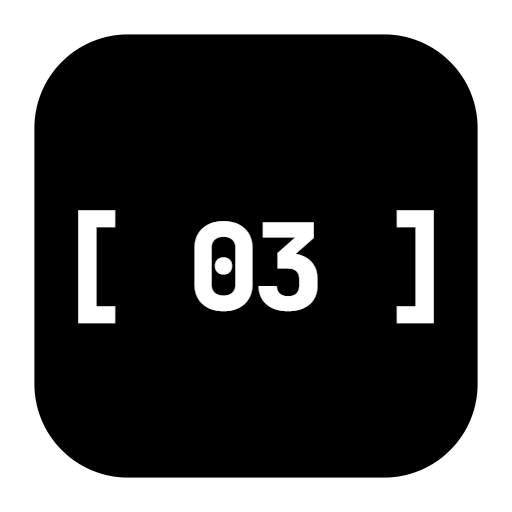
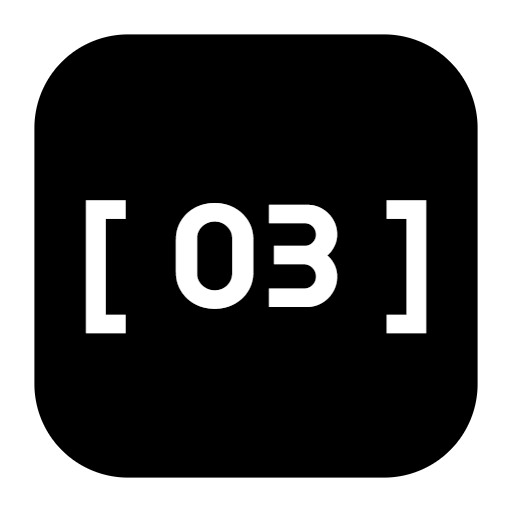
앱 아이콘·시작 화면 [ 03 ]도 MuseoModerno로: 홈 화면(maskable)·아이폰 아이콘은 시작 화면 첫 장면을 그대로 키워 다시 그림(600 38 — 숫자 높이·괄호 폭이 예전과 거의 같게), 192·512는 테는 그대로 글자만. 시작 화면 릴은 [ 03 ]과 같은 글줄에서 숫자만 비워 괄호를 맞춤, JetBrains Mono는 더 안 받음

Changed region(s): [[0.3438, 0.375, 0.6562, 0.625], [0.75, 0.375, 0.875, 0.6562], [0.125, 0.375, 0.25, 0.6562]]

diff --git a/index.html b/index.html
@@ -7,33 +7,31 @@
 <!-- '홈 화면에 추가'로 열면 주소창 없이 전체 화면 (화면 방향은 폰 따라 회전) -->
 <link rel="manifest" href="manifest.webmanifest">
 <!-- 아이콘(#39 [ 03 ]): 탭·설치용은 시안 그대로, 아이폰 홈 화면은 검은 바탕을 꽉 채운 것 (모서리는 아이폰이 둥글게 깎음) -->
-<link rel="icon" type="image/png" href="icon-192.png?v=3">
-<link rel="apple-touch-icon" href="apple-touch-icon.png?v=5">
+<link rel="icon" type="image/png" href="icon-192.png?v=4">
+<link rel="apple-touch-icon" href="apple-touch-icon.png?v=6">
 <meta name="apple-mobile-web-app-capable" content="yes">
 <meta name="apple-mobile-web-app-status-bar-style" content="black-translucent">
 <title>Pebbly Mirror</title>
 <link rel="preconnect" href="https://fonts.googleapis.com">
 <link rel="preconnect" href="https://fonts.gstatic.com" crossorigin>
 <link rel="stylesheet" href="https://fonts.googleapis.com/css2?family=Orbitron:wght@500;700;900&display=swap">
-<!-- 로고(02 [ 03 ] 04 · pebbly labs · PEBBLY LABS)·시계판: MuseoModerno, 인트로 [ 03 ] 상자·숫자 릴(앱 아이콘과 같은 글꼴): JetBrains Mono
-     — 쓰는 글자(숫자·괄호·빈칸·로고 글자)만 받음 (몇 KB) -->
+<!-- 로고(02 [ 03 ] 04 · pebbly labs · PEBBLY LABS)·인트로·시계판: MuseoModerno — 쓰는 글자(숫자·괄호·빈칸·로고 글자)만 받음 (몇 KB) -->
 <link rel="stylesheet" href="https://fonts.googleapis.com/css2?family=MuseoModerno:wght@400;500;600&text=0123456789%5B%5D%20abelpsyABELPSY&display=block">
-<link rel="stylesheet" href="https://fonts.googleapis.com/css2?family=JetBrains+Mono:wght@400;800&text=0123456789%5B%5D%20&display=block">
 <!-- 로터리 시계판 숫자·날짜: 좁은 BenchNine — 숫자와 영어 달·요일 이름에 쓰는 글자만 -->
 <link rel="stylesheet" href="https://fonts.googleapis.com/css2?family=BenchNine&text=%20.0123456789%3AADFJMNOPSTWabcdeghilmnoprstuvy&display=swap">
 <link rel="stylesheet" href="https://cdn.jsdelivr.net/gh/orioncactus/pretendard@v1.3.9/dist/web/variable/pretendardvariable-dynamic-subset.min.css">
 <!-- ?v=: 기기에 남은 옛 파일을 건너뛰게 하는 판 번호 (파일은 _headers로 매번 새 버전 확인). 스타일: 테마 색 → 기본 → 시계 → 날씨 → 상세 화면 → 시계 강조 → 교통 → 사진 액자 → 달력 → 시계 강조 위젯 → 설정 (순서대로 겹침) -->
-<link rel="stylesheet" href="css/theme.css?v=88">
-<link rel="stylesheet" href="css/base.css?v=88">
-<link rel="stylesheet" href="css/clock.css?v=88">
-<link rel="stylesheet" href="css/weather.css?v=88">
-<link rel="stylesheet" href="css/detail.css?v=88">
-<link rel="stylesheet" href="css/standby.css?v=88">
-<link rel="stylesheet" href="css/transit.css?v=88">
-<link rel="stylesheet" href="css/photo.css?v=88">
-<link rel="stylesheet" href="css/calendar.css?v=88">
-<link rel="stylesheet" href="css/standby-widgets.css?v=88">
-<link rel="stylesheet" href="css/settings.css?v=88">
+<link rel="stylesheet" href="css/theme.css?v=89">
+<link rel="stylesheet" href="css/base.css?v=89">
+<link rel="stylesheet" href="css/clock.css?v=89">
+<link rel="stylesheet" href="css/weather.css?v=89">
+<link rel="stylesheet" href="css/detail.css?v=89">
+<link rel="stylesheet" href="css/standby.css?v=89">
+<link rel="stylesheet" href="css/transit.css?v=89">
+<link rel="stylesheet" href="css/photo.css?v=89">
+<link rel="stylesheet" href="css/calendar.css?v=89">
+<link rel="stylesheet" href="css/standby-widgets.css?v=89">
+<link rel="stylesheet" href="css/settings.css?v=89">
 </head>
 <body class="idle" data-panel="now">
 <!-- 시작 인트로(#39 로고): 안드로이드 시작 화면의 [ 03 ] 상자 그대로 시작 → 상자가 스파인으로 펼쳐지고
@@ -55,7 +53,7 @@
         <path class="in-late" d="M326 18H340V32M326 102H340V88" stroke-width="2"/>
         <path class="in-late" d="M92 18V102" stroke-width="1.25" stroke-dasharray="4 4"/>
         <g class="in-slot">
-          <text x="48" y="64" class="in-mid" xml:space="preserve">[    ]</text>
+          <text x="48" y="64" class="in-mid" xml:space="preserve">[ <tspan fill-opacity="0">03</tspan> ]</text>
           <g class="in-side"><g clip-path="url(#in-cd)" mask="url(#in-m)"><g class="in-reel in-dim"></g></g></g>
           <g clip-path="url(#in-cm)"><g class="in-reel in-mid"></g></g>
         </g>
@@ -65,11 +63,11 @@
       <!-- 첫 장면: 안드로이드 시작 화면과 같은 [ 03 ] 상자 (icon-maskable.png를 160px로 띄운 크기: 상자 119px).
            상자는 갤럭시 아이콘 테두리와 같은 초타원(n=2.7) — intro.js가 이 모양에서 스파인 테두리로 바꿔 감 -->
       <path id="in-box" d="M59.5 0L59.3 10.6L58.7 17.7L57.6 23.8L56.1 29.2L54.2 34.1L51.9 38.5L49.2 42.5L46 46L42.5 49.2L38.5 51.9L34.1 54.2L29.2 56.1L23.8 57.6L17.7 58.7L10.6 59.3L0 59.5L-10.6 59.3L-17.7 58.7L-23.8 57.6L-29.2 56.1L-34.1 54.2L-38.5 51.9L-42.5 49.2L-46 46L-49.2 42.5L-51.9 38.5L-54.2 34.1L-56.1 29.2L-57.6 23.8L-58.7 17.7L-59.3 10.6L-59.5 0L-59.3 -10.6L-58.7 -17.7L-57.6 -23.8L-56.1 -29.2L-54.2 -34.1L-51.9 -38.5L-49.2 -42.5L-46 -46L-42.5 -49.2L-38.5 -51.9L-34.1 -54.2L-29.2 -56.1L-23.8 -57.6L-17.7 -58.7L-10.6 -59.3L0 -59.5L10.6 -59.3L17.7 -58.7L23.8 -57.6L29.2 -56.1L34.1 -54.2L38.5 -51.9L42.5 -49.2L46 -46L49.2 -42.5L51.9 -38.5L54.2 -34.1L56.1 -29.2L57.6 -23.8L58.7 -17.7L59.3 -10.6Z" stroke-width="7.5"/>
-      <text id="in-03" x="-2.75" y="12.53" class="in-mid" style="font-size:35.5px;letter-spacing:-5.5px" xml:space="preserve">[ 03 ]</text>
+      <text id="in-03" x=".15" y="13.4" class="in-mid" style="font-size:38px" xml:space="preserve">[ 03 ]</text>
     </svg>
   </svg>
 </div>
-<script src="js/intro.js?v=88"></script>
+<script src="js/intro.js?v=89"></script>
 <main id="stage" class="stage">
   <header class="head">
     <div class="brand">
@@ -153,7 +151,7 @@
         <svg class="dm dm-hands" viewBox="-100 -122 200 244"><g id="dm-h"></g><g id="dm-m"></g><g id="dm-hub"></g></svg>
         <svg id="dm-sec" class="dm dm-sec" viewBox="-100 -122 200 244"></svg>
         <!-- 플라워(data-face="flower"): 보석 꽃 그림(가운데 웃는 얼굴이 판 가운데 — 이 테마를 고를 때 받음) / 시침·분침(그림자) / 초침. 바늘은 200×200 단위·가운데 0,0이고 clock.js(flowerHands)가 그림 -->
-        <img class="df df-img" src="img/flower.webp?v=88" alt="" loading="lazy" decoding="async">
+        <img class="df df-img" src="img/flower.webp?v=89" alt="" loading="lazy" decoding="async">
         <svg class="df" viewBox="-100 -100 200 200"><defs id="df-defs"></defs><g filter="url(#df-sh)"><g id="df-h"></g><g id="df-m"></g><g id="df-hub"></g></g></svg>
         <svg id="df-sec" class="df df-sec" viewBox="-100 -100 200 200"></svg>
         <!-- 블랙 타일(data-face="rainbow"): 검은 타일 다이얼·시 눈금·작은 다이얼 3개·날짜 창 / (6시 쪽) 작은 초침 / 작은 다이얼 시·분 바늘·시침·분침(그림자) / 초침
@@ -451,16 +449,16 @@
 </div>
 
 <!-- 스크립트: 순서대로 실행 (앞 파일의 값·함수를 뒤 파일이 씀). 시작은 main.js -->
-<script src="js/core.js?v=88"></script>
-<script src="js/sync.js?v=88"></script>
-<script src="js/clock.js?v=88"></script>
-<script src="js/weather.js?v=88"></script>
-<script src="js/screen.js?v=88"></script>
-<script src="js/clock-modes.js?v=88"></script>
-<script src="js/settings.js?v=88"></script>
-<script src="js/transit.js?v=88"></script>
-<script src="js/photo.js?v=88"></script>
-<script src="js/calendar.js?v=88"></script>
-<script src="js/main.js?v=88"></script>
+<script src="js/core.js?v=89"></script>
+<script src="js/sync.js?v=89"></script>
+<script src="js/clock.js?v=89"></script>
+<script src="js/weather.js?v=89"></script>
+<script src="js/screen.js?v=89"></script>
+<script src="js/clock-modes.js?v=89"></script>
+<script src="js/settings.js?v=89"></script>
+<script src="js/transit.js?v=89"></script>
+<script src="js/photo.js?v=89"></script>
+<script src="js/calendar.js?v=89"></script>
+<script src="js/main.js?v=89"></script>
 </body>
 </html>

diff --git a/js/intro.js b/js/intro.js
@@ -42,7 +42,8 @@
     }
     return d + 'Z';
   };
-  const A = { x: 0, y: 0, a: 59.5, b: 59.5, n: 2.7, sw: 7.5, tx: -2.75, ty: 12.53, fs: 35.5, ls: -5.5 };
+  // 첫 장면 [ 03 ]: 앱 아이콘(icon-maskable.png = 이 장면 3.2배)과 같은 MuseoModerno 600 38 — 숫자 높이·괄호 폭이 예전 아이콘과 거의 같음
+  const A = { x: 0, y: 0, a: 59.5, b: 59.5, n: 2.7, sw: 7.5, tx: .15, ty: 13.4, fs: 38, ls: 0 };
   const ease = t => t < .5 ? 4 * t * t * t : 1 - Math.pow(-2 * t + 2, 3) / 2;
   const part = (a, b) => Math.max(0, Math.min(1, (p - a) / (b - a)));
   function frame() {
@@ -107,8 +108,8 @@
   }
   // 글꼴이 늦게 와서 다른 글꼴로 번쩍이지 않게 기다렸다가 (최대 1.5초), 첫 장면을 잠깐 더 보여 준 뒤 시작
   const fonts = Promise.all([
-    document.fonts.load("400 12px 'JetBrains Mono'", '0123456789'),
-    document.fonts.load("800 12px 'JetBrains Mono'", '[]0123456789 '),
+    document.fonts.load("500 12px 'MuseoModerno'", '0123456789'),
+    document.fonts.load("600 12px 'MuseoModerno'", '[]0123456789 '),
     document.fonts.load("400 12px 'MuseoModerno'", 'pebbly labs')
   ]).catch(() => {});
   Promise.race([fonts, new Promise(r => setTimeout(r, 1500))]).then(() => at(200, play));

diff --git a/css/base.css b/css/base.css
@@ -67,9 +67,9 @@ body.night.night-dim .stage{opacity:.45}
   transition:opacity .6s,color .8s;animation:intro-bail .5s 8s forwards}
 .intro > svg{display:block;width:100%;height:100%;transition:opacity .8s}
 .intro path,#in-box{fill:none;stroke:currentColor}
-.intro text{fill:currentColor;text-anchor:middle;font-family:var(--icon)}
-.intro .in-mid{font-weight:800;font-size:12.5px}
-.intro .in-dim{font-size:11px;opacity:.45}
+.intro text{fill:currentColor;text-anchor:middle;font-family:var(--mark)}
+.intro .in-mid{font-weight:600;font-size:12.5px}
+.intro .in-dim{font-weight:500;font-size:11px;opacity:.45}
 .intro .in-name{font-family:var(--logo);font-weight:400;font-size:27px;dominant-baseline:central}
 /* 펼쳐지는 동안 JS가 차례로 나타나게 함. 다 펼쳐지면(landed) 굴러가는 릴로 바꿔 끼움 */
 .in-bars,.in-late,.in-word,.in-slot,.in-side{opacity:0}

diff --git a/css/theme.css b/css/theme.css
@@ -47,9 +47,8 @@
   --vinyl-label:#e2533b;
   --num:"Orbitron","Pretendard Variable",Pretendard,sans-serif;
   /* 로고(#39): 글자 pebbly labs(--logo)도 02 [ 03 ] 04 표시(--mark)도 MuseoModerno — 둥근 기하학, 큰 자리 400·작은 자리 600
-     (헤더·인트로 이름·시계판 로고·레코드 라벨이 같이 씀). 인트로 첫 장면 [ 03 ] 상자·숫자 릴은 앱 아이콘 그림과 맞춰 JetBrains Mono(--icon) */
+     (헤더·인트로·시계판 로고·레코드 라벨·앱 아이콘 [ 03 ]이 같이 씀) */
   --brand:"Pretendard Variable",Pretendard,sans-serif;
   --mark:"MuseoModerno","Pretendard Variable",Pretendard,sans-serif;
   --logo:"MuseoModerno","Pretendard Variable",Pretendard,sans-serif;
-  --icon:"JetBrains Mono",ui-monospace,monospace;
 }
